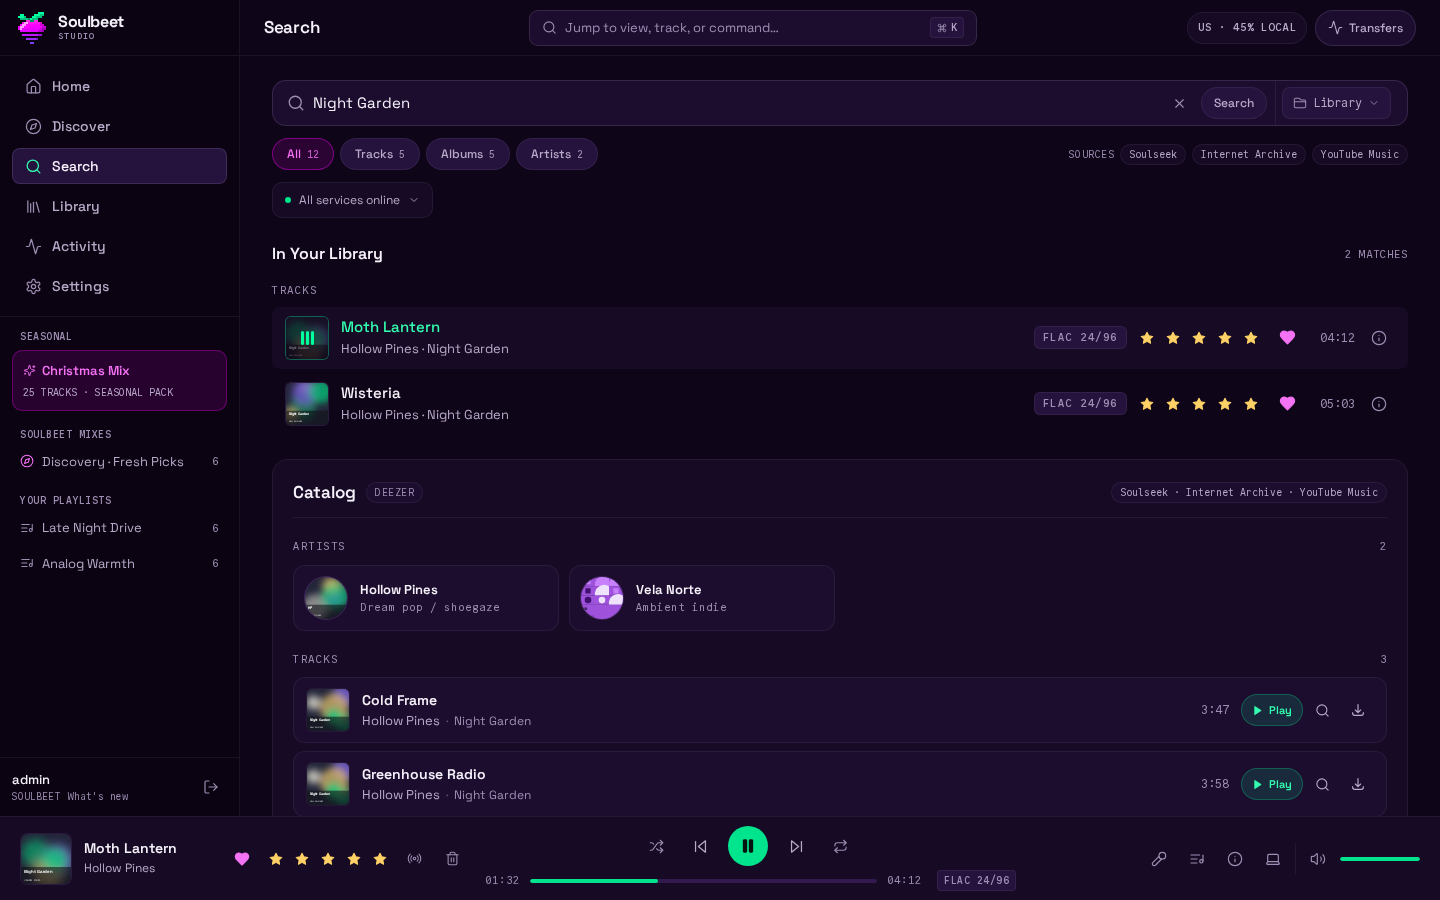
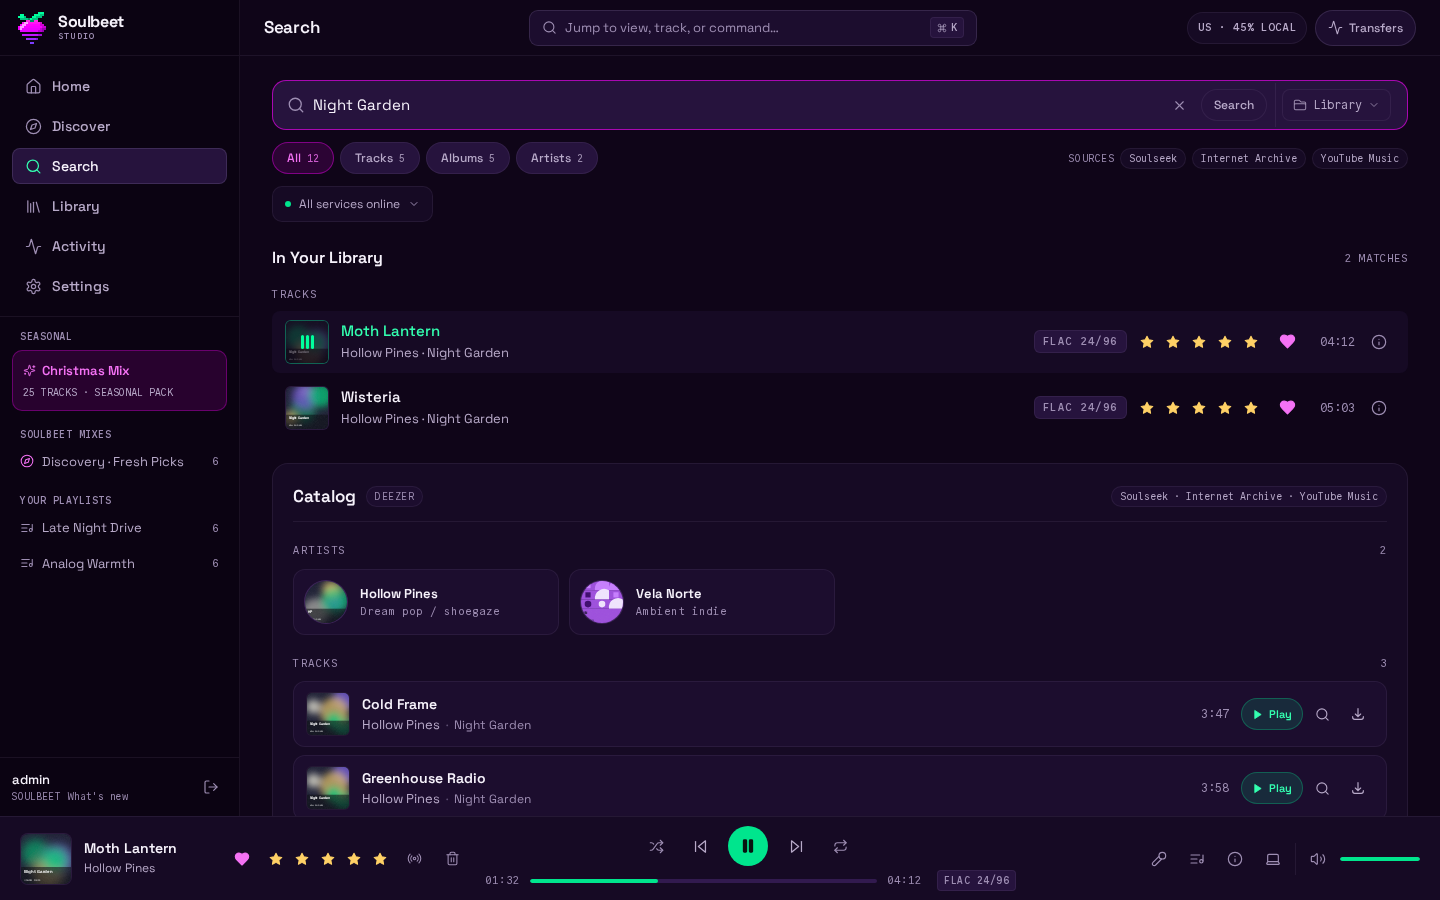
Remove harsh album tracklist borders, rebuild Tailwind CSS, and recapture screenshots

diff --git a/web/assets/tailwind.css b/web/assets/tailwind.css
@@ -257,6 +257,9 @@
   .pointer-events-none {
     pointer-events: none;
   }
+  .collapse {
+    visibility: collapse;
+  }
   .invisible {
     visibility: hidden;
   }
@@ -586,6 +589,10 @@
     width: calc(var(--spacing) * 6);
     height: calc(var(--spacing) * 6);
   }
+  .size-8 {
+    width: calc(var(--spacing) * 8);
+    height: calc(var(--spacing) * 8);
+  }
   .size-9 {
     width: calc(var(--spacing) * 9);
     height: calc(var(--spacing) * 9);
@@ -668,6 +675,9 @@
   .h-20 {
     height: calc(var(--spacing) * 20);
   }
+  .h-24 {
+    height: calc(var(--spacing) * 24);
+  }
   .h-36 {
     height: calc(var(--spacing) * 36);
   }
@@ -685,6 +695,9 @@
   }
   .h-\[36px\] {
     height: 36px;
+  }
+  .h-\[38px\] {
+    height: 38px;
   }
   .h-\[40px\] {
     height: 40px;
@@ -706,6 +719,9 @@
   }
   .max-h-48 {
     max-height: calc(var(--spacing) * 48);
+  }
+  .max-h-72 {
+    max-height: calc(var(--spacing) * 72);
   }
   .max-h-80 {
     max-height: calc(var(--spacing) * 80);
@@ -745,6 +761,9 @@
   }
   .min-h-\[46px\] {
     min-height: 46px;
+  }
+  .min-h-\[50px\] {
+    min-height: 50px;
   }
   .min-h-\[54px\] {
     min-height: 54px;
@@ -875,14 +894,17 @@
   .max-w-7xl {
     max-width: var(--container-7xl);
   }
-  .max-w-\[78\%\] {
-    max-width: 78%;
-  }
   .max-w-\[92vw\] {
     max-width: 92vw;
   }
   .max-w-\[160px\] {
     max-width: 160px;
+  }
+  .max-w-\[180px\] {
+    max-width: 180px;
+  }
+  .max-w-\[200px\] {
+    max-width: 200px;
   }
   .max-w-\[400px\] {
     max-width: 400px;
@@ -1216,6 +1238,12 @@
   .rounded {
     border-radius: 0.25rem;
   }
+  .rounded-\[4px\] {
+    border-radius: 4px;
+  }
+  .rounded-\[5px\] {
+    border-radius: 5px;
+  }
   .rounded-\[6px\] {
     border-radius: 6px;
   }
@@ -1382,6 +1410,12 @@
   .border-beet-border-subtle {
     border-color: var(--color-beet-border-subtle);
   }
+  .border-beet-border-subtle\/70 {
+    border-color: color-mix(in srgb, rgba(216, 194, 245, 0.08) 70%, transparent);
+    @supports (color: color-mix(in lab, red, red)) {
+      border-color: color-mix(in oklab, var(--color-beet-border-subtle) 70%, transparent);
+    }
+  }
   .border-beet-crimson-solid\/30 {
     border-color: color-mix(in srgb, #c81e4c 30%, transparent);
     @supports (color: color-mix(in lab, red, red)) {
@@ -1424,6 +1458,12 @@
       border-color: color-mix(in oklab, var(--color-beet-gold) 30%, transparent);
     }
   }
+  .border-beet-gold\/35 {
+    border-color: color-mix(in srgb, #ffd166 35%, transparent);
+    @supports (color: color-mix(in lab, red, red)) {
+      border-color: color-mix(in oklab, var(--color-beet-gold) 35%, transparent);
+    }
+  }
   .border-beet-gold\/40 {
     border-color: color-mix(in srgb, #ffd166 40%, transparent);
     @supports (color: color-mix(in lab, red, red)) {
@@ -1461,6 +1501,12 @@
     border-color: color-mix(in srgb, #00e58d 40%, transparent);
     @supports (color: color-mix(in lab, red, red)) {
       border-color: color-mix(in oklab, var(--color-beet-leaf-solid) 40%, transparent);
+    }
+  }
+  .border-beet-leaf-solid\/45 {
+    border-color: color-mix(in srgb, #00e58d 45%, transparent);
+    @supports (color: color-mix(in lab, red, red)) {
+      border-color: color-mix(in oklab, var(--color-beet-leaf-solid) 45%, transparent);
     }
   }
   .border-beet-leaf\/20 {
@@ -1586,6 +1632,18 @@
   .bg-beet-crimson-surface {
     background-color: var(--color-beet-crimson-surface);
   }
+  .bg-beet-crimson-surface\/40 {
+    background-color: color-mix(in srgb, rgba(255, 102, 140, 0.14) 40%, transparent);
+    @supports (color: color-mix(in lab, red, red)) {
+      background-color: color-mix(in oklab, var(--color-beet-crimson-surface) 40%, transparent);
+    }
+  }
+  .bg-beet-crimson-surface\/70 {
+    background-color: color-mix(in srgb, rgba(255, 102, 140, 0.14) 70%, transparent);
+    @supports (color: color-mix(in lab, red, red)) {
+      background-color: color-mix(in oklab, var(--color-beet-crimson-surface) 70%, transparent);
+    }
+  }
   .bg-beet-crimson-text {
     background-color: var(--color-beet-crimson-text);
   }
@@ -1594,6 +1652,12 @@
   }
   .bg-beet-gold-surface {
     background-color: var(--color-beet-gold-surface);
+  }
+  .bg-beet-gold\/15 {
+    background-color: color-mix(in srgb, #ffd166 15%, transparent);
+    @supports (color: color-mix(in lab, red, red)) {
+      background-color: color-mix(in oklab, var(--color-beet-gold) 15%, transparent);
+    }
   }
   .bg-beet-gold\/20 {
     background-color: color-mix(in srgb, #ffd166 20%, transparent);
@@ -1710,6 +1774,12 @@
     background-color: color-mix(in srgb, #160a24 60%, transparent);
     @supports (color: color-mix(in lab, red, red)) {
       background-color: color-mix(in oklab, var(--color-beet-surface-low) 60%, transparent);
+    }
+  }
+  .bg-beet-surface\/70 {
+    background-color: color-mix(in srgb, #1c0d2e 70%, transparent);
+    @supports (color: color-mix(in lab, red, red)) {
+      background-color: color-mix(in oklab, var(--color-beet-surface) 70%, transparent);
     }
   }
   .bg-beet-text-primary {
@@ -1841,6 +1911,9 @@
   .py-4 {
     padding-block: calc(var(--spacing) * 4);
   }
+  .py-5 {
+    padding-block: calc(var(--spacing) * 5);
+  }
   .py-6 {
     padding-block: calc(var(--spacing) * 6);
   }
@@ -1892,6 +1965,9 @@
   .pr-1 {
     padding-right: var(--spacing);
   }
+  .pr-3\.5 {
+    padding-right: calc(var(--spacing) * 3.5);
+  }
   .pr-6 {
     padding-right: calc(var(--spacing) * 6);
   }
@@ -1912,6 +1988,9 @@
   }
   .pb-3 {
     padding-bottom: calc(var(--spacing) * 3);
+  }
+  .pb-4 {
+    padding-bottom: calc(var(--spacing) * 4);
   }
   .pb-10 {
     padding-bottom: calc(var(--spacing) * 10);
@@ -2026,6 +2105,9 @@
   .text-\[18px\] {
     font-size: 18px;
   }
+  .text-\[19px\] {
+    font-size: 19px;
+  }
   .text-\[20px\] {
     font-size: 20px;
   }
@@ -2037,6 +2119,9 @@
   }
   .text-\[26px\] {
     font-size: 26px;
+  }
+  .text-\[30px\] {
+    font-size: 30px;
   }
   .leading-\[1\.2\] {
     --tw-leading: 1.2;
@@ -2264,6 +2349,9 @@
   }
   .underline-offset-4 {
     text-underline-offset: 4px;
+  }
+  .accent-beet-accent {
+    accent-color: var(--color-beet-accent);
   }
   .accent-beet-accent-solid {
     accent-color: var(--color-beet-accent-solid);
@@ -2731,11 +2819,20 @@
     -webkit-backdrop-filter: var(--tw-backdrop-blur, ) var(--tw-backdrop-brightness, ) var(--tw-backdrop-contrast, ) var(--tw-backdrop-grayscale, ) var(--tw-backdrop-hue-rotate, ) var(--tw-backdrop-invert, ) var(--tw-backdrop-opacity, ) var(--tw-backdrop-saturate, ) var(--tw-backdrop-sepia, );
     backdrop-filter: var(--tw-backdrop-blur, ) var(--tw-backdrop-brightness, ) var(--tw-backdrop-contrast, ) var(--tw-backdrop-grayscale, ) var(--tw-backdrop-hue-rotate, ) var(--tw-backdrop-invert, ) var(--tw-backdrop-opacity, ) var(--tw-backdrop-saturate, ) var(--tw-backdrop-sepia, );
   }
+  .focus-within\:border-beet-accent\/60:focus-within {
+    border-color: color-mix(in srgb, #ff00ff 60%, transparent);
+    @supports (color: color-mix(in lab, red, red)) {
+      border-color: color-mix(in oklab, var(--color-beet-accent) 60%, transparent);
+    }
+  }
   .focus-within\:border-beet-border-strong:focus-within {
     border-color: var(--color-beet-border-strong);
   }
   .focus-within\:border-beet-leaf-solid:focus-within {
     border-color: var(--color-beet-leaf-solid);
+  }
+  .focus-within\:bg-beet-surface-high:focus-within {
+    background-color: var(--color-beet-surface-high);
   }
   .focus-within\:shadow-\[inset_2px_0_0_var\(--color-beet-leaf-solid\)\]:focus-within {
     --tw-shadow: inset 2px 0 0 var(--tw-shadow-color, var(--color-beet-leaf-solid));
@@ -2790,6 +2887,9 @@
         border-color: color-mix(in oklab, var(--color-beet-crimson-text) 30%, transparent);
       }
     }
+    .hover\:border-beet-leaf-solid:hover {
+      border-color: var(--color-beet-leaf-solid);
+    }
     .hover\:border-beet-leaf-solid\/40:hover {
       border-color: color-mix(in srgb, #00e58d 40%, transparent);
     }
@@ -2827,6 +2927,14 @@
     }
     .hover\:bg-beet-accent-surface:hover {
       background-color: var(--color-beet-accent-surface);
+    }
+    .hover\:bg-beet-accent\/25:hover {
+      background-color: color-mix(in srgb, #ff00ff 25%, transparent);
+    }
+    @supports (color: color-mix(in lab, red, red)) {
+      .hover\:bg-beet-accent\/25:hover {
+        background-color: color-mix(in oklab, var(--color-beet-accent) 25%, transparent);
+      }
     }
     .hover\:bg-beet-crimson-solid:hover {
       background-color: var(--color-beet-crimson-solid);
@@ -2882,6 +2990,14 @@
     @supports (color: color-mix(in lab, red, red)) {
       .hover\:bg-beet-surface\/60:hover {
         background-color: color-mix(in oklab, var(--color-beet-surface) 60%, transparent);
+      }
+    }
+    .hover\:bg-beet-surface\/70:hover {
+      background-color: color-mix(in srgb, #1c0d2e 70%, transparent);
+    }
+    @supports (color: color-mix(in lab, red, red)) {
+      .hover\:bg-beet-surface\/70:hover {
+        background-color: color-mix(in oklab, var(--color-beet-surface) 70%, transparent);
       }
     }
     .hover\:bg-white\/5:hover {
@@ -2944,6 +3060,9 @@
       --tw-brightness: brightness(110%);
       filter: var(--tw-blur, ) var(--tw-brightness, ) var(--tw-contrast, ) var(--tw-grayscale, ) var(--tw-hue-rotate, ) var(--tw-invert, ) var(--tw-saturate, ) var(--tw-sepia, ) var(--tw-drop-shadow, );
     }
+  }
+  .focus\:border-beet-accent:focus {
+    border-color: var(--color-beet-accent);
   }
   .focus\:border-beet-border-strong:focus {
     border-color: var(--color-beet-border-strong);
@@ -3074,8 +3193,14 @@
     .sm\:inline-flex {
       display: inline-flex;
     }
+    .sm\:h-28 {
+      height: calc(var(--spacing) * 28);
+    }
     .sm\:h-44 {
       height: calc(var(--spacing) * 44);
+    }
+    .sm\:w-28 {
+      width: calc(var(--spacing) * 28);
     }
     .sm\:w-36 {
       width: calc(var(--spacing) * 36);
@@ -3094,6 +3219,12 @@
     }
     .sm\:grid-cols-4 {
       grid-template-columns: repeat(4, minmax(0, 1fr));
+    }
+    .sm\:flex-row {
+      flex-direction: row;
+    }
+    .sm\:items-center {
+      align-items: center;
     }
     .sm\:gap-1\.5 {
       gap: calc(var(--spacing) * 1.5);
@@ -3190,6 +3321,9 @@
     }
     .md\:grid-cols-2 {
       grid-template-columns: repeat(2, minmax(0, 1fr));
+    }
+    .md\:grid-cols-3 {
+      grid-template-columns: repeat(3, minmax(0, 1fr));
     }
     .md\:grid-cols-4 {
       grid-template-columns: repeat(4, minmax(0, 1fr));

diff --git a/web/src/views/search.rs b/web/src/views/search.rs
@@ -1841,7 +1841,7 @@ pub fn SearchPage() -> Element {
                                                         "No tracklist available for this release."
                                                     }
                                                 } else {
-                                                    ul { class: "list-none p-0 divide-y divide-beet-border-subtle/60",
+                                                    ul { class: "list-none p-0 space-y-0.5",
                                                         for (idx, track) in det.tracks.iter().enumerate() {
                                                             {
                                                                 let track_acq = track.clone();
@@ -3258,7 +3258,7 @@ fn CatalogAlbumRow(props: CatalogAlbumRowProps) -> Element {
                             }
                         },
                         Some(detail) => rsx! {
-                            ul { class: "list-none p-0 divide-y divide-beet-border-subtle/60",
+                            ul { class: "list-none p-0 space-y-0.5",
                                 for (idx, track) in detail.tracks.iter().enumerate() {
                                     {
                                         let track_acq = track.clone();
